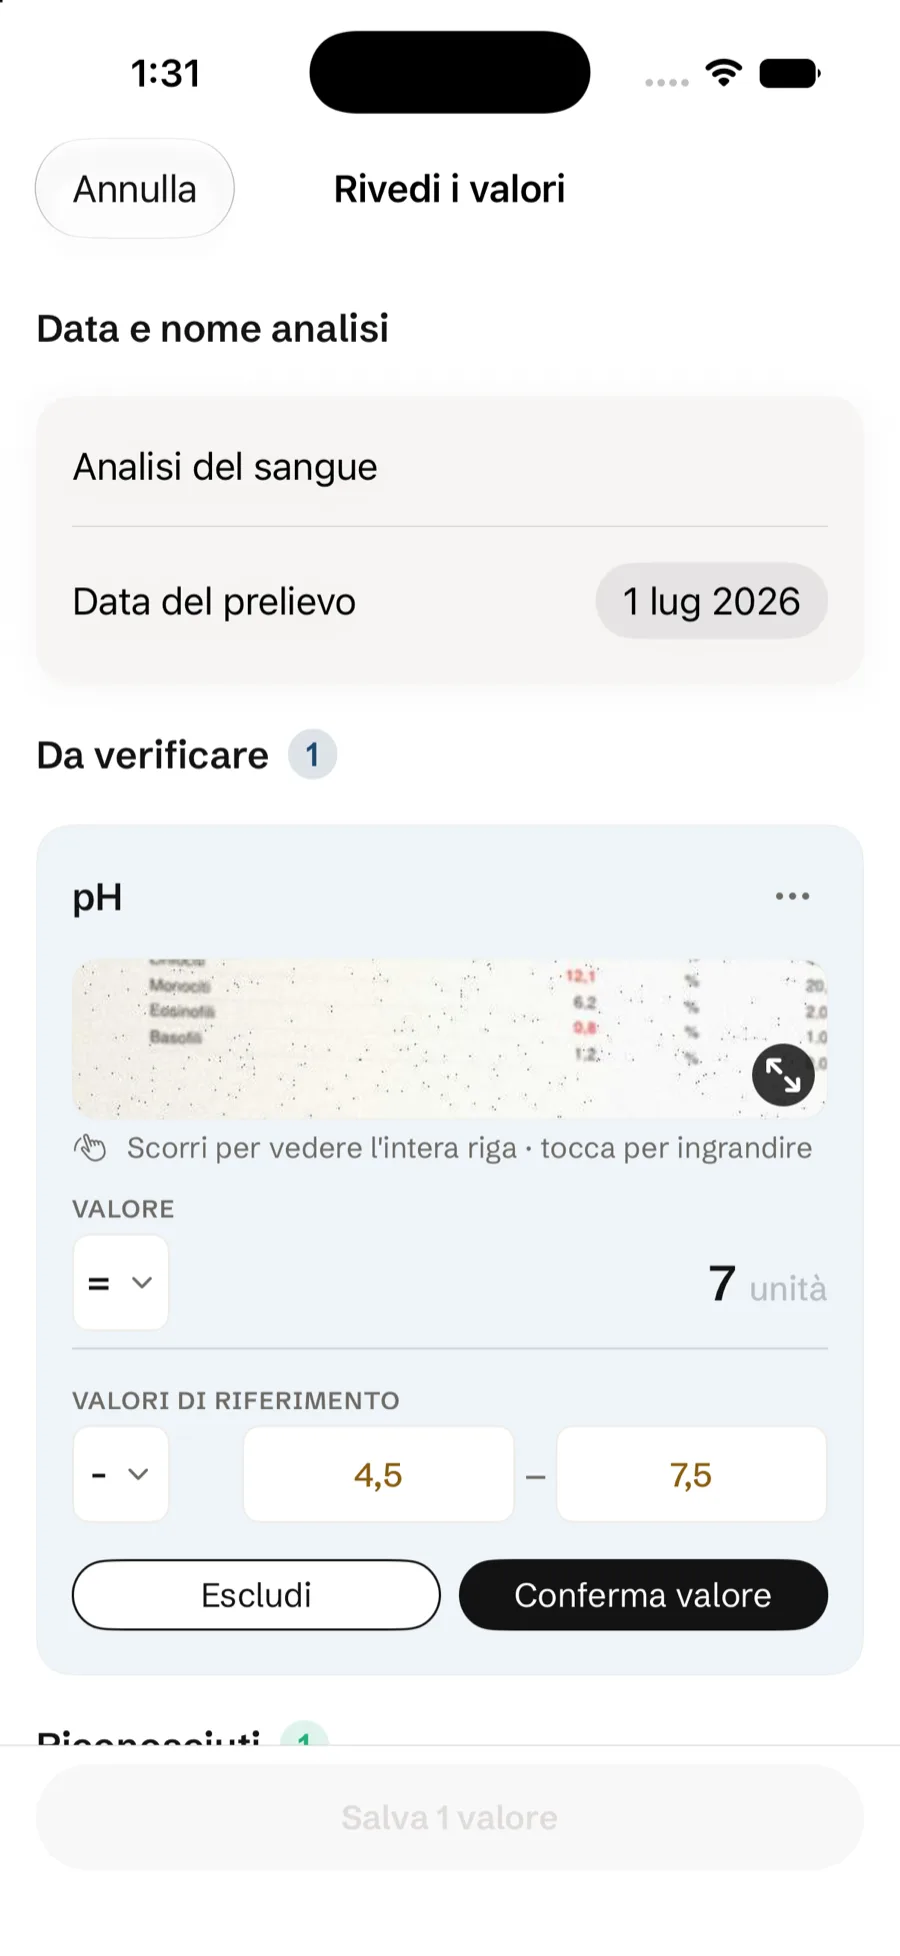
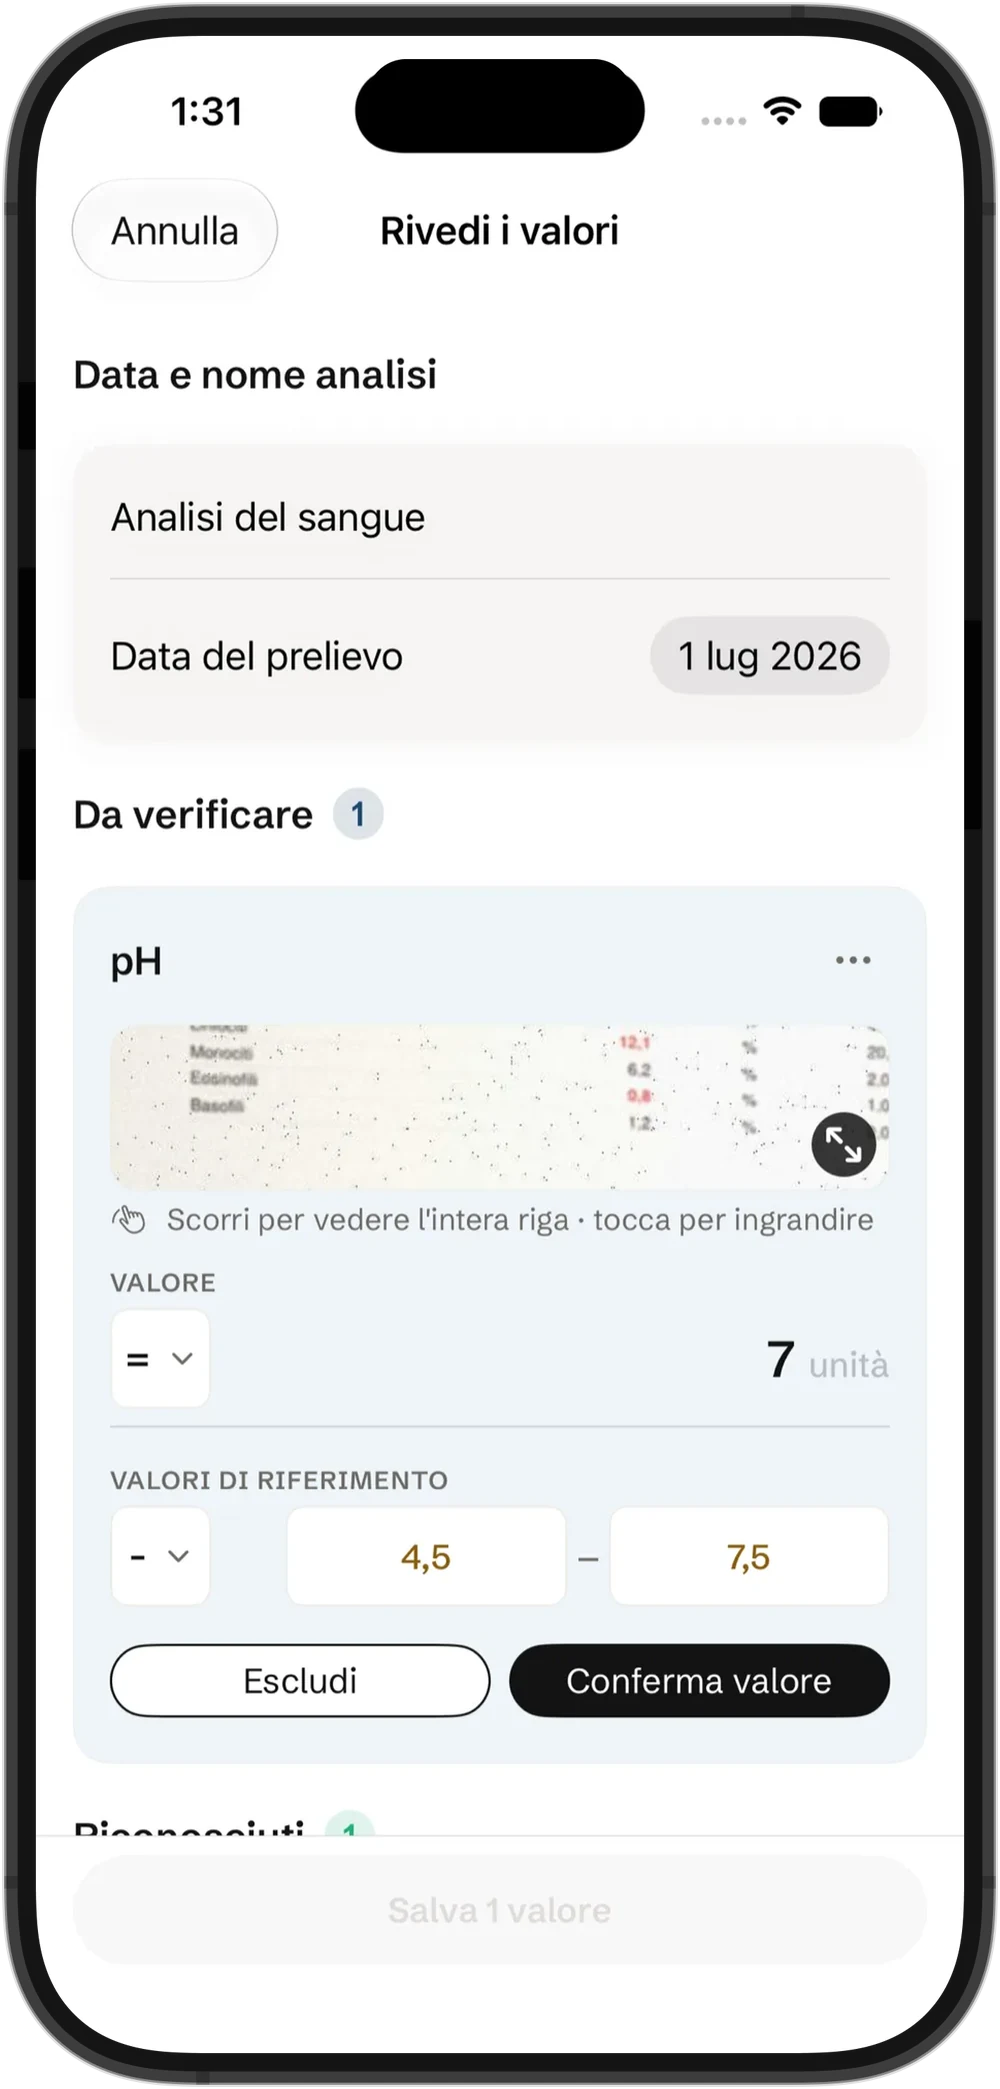
Sito: mockup iPhone con la cornice dei post Instagram, generati da tools/frame.py

diff --git a/index.html b/index.html
@@ -22,7 +22,7 @@
 <link rel="preconnect" href="https://fonts.googleapis.com" />
 <link rel="preconnect" href="https://fonts.gstatic.com" crossorigin />
 <link href="https://fonts.googleapis.com/css2?family=Schibsted+Grotesk:wght@400;500;600;700&display=swap" rel="stylesheet" />
-<link rel="stylesheet" href="styles.css" />
+<link rel="stylesheet" href="styles.css?v=20261018a" />
 <script>
   (function () {
     try {
@@ -85,7 +85,7 @@
     </div>
     <div class="hero-media reveal">
       <div class="device">
-        <img src="assets/screens/01-dashboard.webp" alt="La schermata iniziale di Refertrack, con il valore fuori range e gli ultimi referti" width="900" height="1956" />
+        <img src="assets/screens/01-dashboard.webp" alt="La schermata iniziale di Refertrack, con il valore fuori range e gli ultimi referti" width="1000" height="2089" />
       </div>
     </div>
   </div>
@@ -151,7 +151,7 @@
         </ul>
       </div>
       <div class="device">
-        <img src="assets/screens/02-revisione.webp" alt="La revisione di un referto in Refertrack: il valore letto dall'OCR accanto al ritaglio della foto" width="900" height="1956" loading="lazy" />
+        <img src="assets/screens/02-revisione.webp" alt="La revisione di un referto in Refertrack: il valore letto dall'OCR accanto al ritaglio della foto" width="1000" height="2089" loading="lazy" />
       </div>
     </div>
 
@@ -167,7 +167,7 @@
         </ul>
       </div>
       <div class="device">
-        <img src="assets/screens/03-parametro.webp" alt="Il dettaglio della Vitamina D in Refertrack, con il grafico dell'andamento e la zona normale" width="900" height="1956" loading="lazy" />
+        <img src="assets/screens/03-parametro.webp" alt="Il dettaglio della Vitamina D in Refertrack, con il grafico dell'andamento e la zona normale" width="1000" height="2089" loading="lazy" />
       </div>
     </div>
 
@@ -183,7 +183,7 @@
         </ul>
       </div>
       <div class="device">
-        <img src="assets/screens/05-dettaglio.webp" alt="Il dettaglio di un check-up in Refertrack, con i valori raggruppati per categoria" width="900" height="1956" loading="lazy" />
+        <img src="assets/screens/05-dettaglio.webp" alt="Il dettaglio di un check-up in Refertrack, con i valori raggruppati per categoria" width="1000" height="2089" loading="lazy" />
       </div>
     </div>
 
@@ -199,7 +199,7 @@
         </ul>
       </div>
       <div class="device">
-        <img src="assets/screens/04-referti.webp" alt="L'elenco dei referti in Refertrack, con lo stato di ogni controllo" width="900" height="1956" loading="lazy" />
+        <img src="assets/screens/04-referti.webp" alt="L'elenco dei referti in Refertrack, con lo stato di ogni controllo" width="1000" height="2089" loading="lazy" />
       </div>
     </div>
 
@@ -215,7 +215,7 @@
         </ul>
       </div>
       <div class="device">
-        <img src="assets/screens/06-vaccini.webp" alt="La panoramica dei vaccini in Refertrack: i contatori scaduto, in scadenza e a posto, con la card dell'antitetanica scaduta da 7 anni" width="900" height="1956" loading="lazy" />
+        <img src="assets/screens/06-vaccini.webp" alt="La panoramica dei vaccini in Refertrack: i contatori scaduto, in scadenza e a posto, con la card dell'antitetanica scaduta da 7 anni" width="1000" height="2089" loading="lazy" />
       </div>
     </div>
 

diff --git a/styles.css b/styles.css
@@ -162,27 +162,16 @@ ul, ol { padding: 0; list-style: none; }
 .hero-reassure { margin-top: 16px; display: flex; align-items: center; gap: 8px; font-size: 14px; color: var(--text-tertiary); }
 .hero-reassure svg { color: var(--accent-green); flex: none; }
 
-/* Stesso schema del sito Quillino (frame giudicato meglio riuscito): `box-sizing: content-box`
-   contro il reset globale border-box così `aspect-ratio` descrive l'area DENTRO il padding (dove
-   vive lo screenshot) — padding/bordo si aggiungono fuori, niente calcolo bordo/content-box misto
-   che aveva causato "il contenuto esce dagli iphone" nella versione precedente. Bezel sottile
-   (5px, non 10px): un bordo spesso è stato bocciato più volte su Quillino come "troppo chunky".
-   Bordo fisso rgba(255,255,255,0.22) (non da var tema): resta leggibile anche quando lo
-   screenshot dentro è in dark mode e quasi nero quanto la cornice stessa. */
+/* La cornice (stessa DeviceKit dei post Instagram, vedi tools/frame.py) è già nell'immagine, con
+   trasparenza: qui restano solo misura e ombra. */
 .device {
-  position: relative; box-sizing: content-box;
-  width: 100%; max-width: calc(280px - 10px);
-  aspect-ratio: 1206 / 2622;
-  background: #0b0a0a;
-  border-radius: 44px; padding: 5px;
-  border: 1px solid rgba(255,255,255,0.22);
-  box-shadow: var(--shadow-float);
+  position: relative;
+  width: 100%; max-width: 280px;
+  aspect-ratio: 1000 / 2089;
+  filter: drop-shadow(0 18px 30px rgba(0,0,0,.16));
   margin: 0 auto;
 }
-.device img {
-  width: 100%; height: 100%;
-  object-fit: cover; border-radius: 40px;
-}
+.device img { width: 100%; height: 100%; object-fit: contain; }
 .hero-media { display: flex; justify-content: center; }
 
 /* ------------------------------------------------------------------ Trust */

diff --git a/tools/frame.py b/tools/frame.py
@@ -1,0 +1,84 @@
+#!/usr/bin/env python3
+"""Cornici per i mockup dei siti (Quillino, Refertrack, sito personale).
+
+  frame.py ios SCREENSHOT OUT.webp      stessa cornice dei post Instagram (DeviceKit, isola dinamica, tasti)
+  frame.py android SCREENSHOT OUT.webp  telefono Android disegnato qui, in stile Pixel (foro della fotocamera, tasti a destra)
+
+ios: lo screenshot viene portato a 1320 x 2868 (schermo dell'iPhone 17 Pro); le risorse della cornice stanno in
+~/quillino-ios/Social/assets/bezel (variabile IOS_BEZEL per cambiarle).
+Uscita: WebP con trasparenza, 1000 px di larghezza."""
+import os, sys
+from PIL import Image, ImageDraw
+
+BEZEL = os.environ.get('IOS_BEZEL', os.path.expanduser('~/quillino-ios/Social/assets/bezel'))
+OUT_W = 1000
+
+
+def save(img, out):
+    img = img.resize((OUT_W, round(OUT_W * img.height / img.width)), Image.LANCZOS)
+    img.save(out, 'WEBP', quality=88, alpha_quality=100, method=6)
+
+
+def ios(shot, out):
+    S = 3  # 1 pt = 3 px
+    B = lambda n: Image.open(os.path.join(BEZEL, n)).convert('RGBA')
+    frame, mask = B('hi_PhoneComposite.png'), B('mask.png')
+    mute, vol, power = B('hi_Mute_BTN.png'), B('hi_Vol_BTN.png'), B('hi_X_Power_BTN.png')
+    k, w, h = 4, 126 * S, 37 * S
+    pill = Image.new('L', (w * k, h * k), 0)
+    ImageDraw.Draw(pill).rounded_rectangle((0, 0, w * k - 1, h * k - 1), radius=h * k // 2, fill=255)
+    island = Image.new('RGBA', (w, h), (0, 0, 0, 255))
+    island.putalpha(pill.resize((w, h), Image.LANCZOS))
+    ox = oy = 17 * S
+    canvas = Image.new('RGBA', frame.size, (0, 0, 0, 0))
+    canvas.alpha_composite(mute, (8 * S, 180 * S))
+    canvas.alpha_composite(vol, (8 * S, 268 * S))
+    canvas.alpha_composite(vol, (8 * S, 354 * S))
+    canvas.alpha_composite(power, ((474 - 8 - 16) * S, 293 * S))
+    canvas.alpha_composite(frame)
+    scr = Image.open(shot).convert('RGBA').resize((1320, 2868), Image.LANCZOS)
+    scr.putalpha(mask.split()[3] if mask.getchannel('A').getextrema()[0] < 255 else Image.new('L', scr.size, 255))
+    canvas.alpha_composite(scr, (ox, oy))
+    canvas.alpha_composite(island, (ox + (440 - 126) * S // 2, oy + 11 * S))
+    save(canvas, out)
+
+
+def android(shot, out):
+    scr = Image.open(shot).convert('RGBA')
+    sw, sh = scr.size
+    b = round(sw * 0.032)                 # spessore della cornice
+    W, H = sw + 2 * b, sh + 2 * b
+    k, btn = 3, round(sw * 0.008)         # sovracampionamento per i bordi lisci, sporgenza dei tasti
+    big = lambda: Image.new('L', ((W + btn) * k, H * k), 0)
+
+    def rr(box, r, fill=255):
+        m = big()
+        ImageDraw.Draw(m).rounded_rectangle([v * k for v in box], radius=r * k, fill=fill)
+        return m.resize((W + btn, H), Image.LANCZOS)
+
+    canvas = Image.new('RGBA', (W + btn, H), (0, 0, 0, 0))
+    # tasti (a destra): volume e accensione
+    for y0, y1 in ((H * .17, H * .25), (H * .29, H * .335)):
+        m = rr((W - 3, y0, W + btn, y1), 5)
+        canvas.paste(Image.new('RGBA', m.size, (46, 47, 51, 255)), (0, 0), m)
+    # corpo con filo chiaro, così non sparisce sugli sfondi scuri
+    outer, body = rr((0, 0, W, H), round(sw * .125)), rr((2.5, 2.5, W - 2.5, H - 2.5), round(sw * .125) - 2)
+    canvas.paste(Image.new('RGBA', outer.size, (74, 76, 82, 255)), (0, 0), outer)
+    canvas.paste(Image.new('RGBA', body.size, (22, 23, 26, 255)), (0, 0), body)
+    # schermo
+    m = rr((b, b, W - b, H - b), round(sw * .088))
+    layer = Image.new('RGBA', canvas.size, (0, 0, 0, 0))
+    layer.paste(scr, (b, b))
+    canvas.paste(layer, (0, 0), m)
+    # foro della fotocamera
+    r = round(sw * .021)
+    cx, cy = W // 2, b + round(sw * .052)
+    hole = rr((cx - r, cy - r, cx + r, cy + r), r)
+    canvas.paste(Image.new('RGBA', hole.size, (6, 6, 8, 255)), (0, 0), hole)
+    save(canvas, out)
+
+
+if __name__ == '__main__':
+    if len(sys.argv) != 4 or sys.argv[1] not in ('ios', 'android'):
+        sys.exit(__doc__)
+    {'ios': ios, 'android': android}[sys.argv[1]](sys.argv[2], sys.argv[3])
